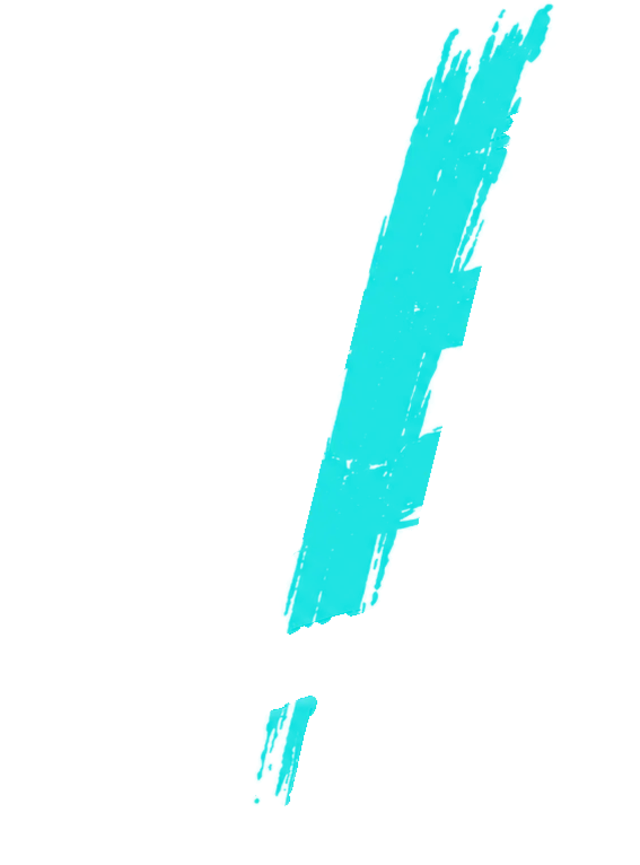
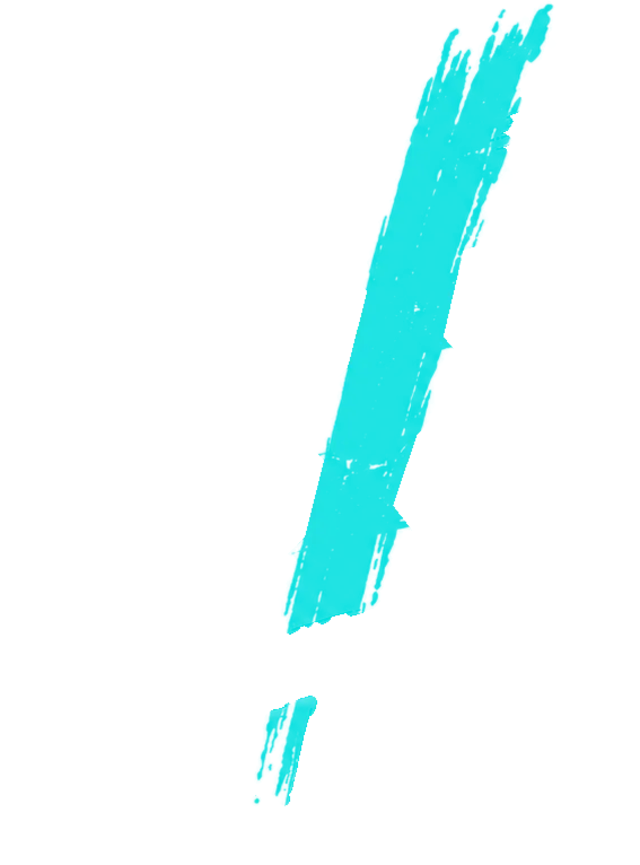
Cut the hash layers by each stroke's real outline
The write-on showed slivers of the bars while the verticals were being
drawn, because the split put every pixel within a fixed band of a
straight centerline into that stroke and the real strokes are neither
straight nor one width.

tools/strokes.py now finds each stroke's outline row by row (the run of
ink around the traced centerline), bridges the crossings with straight
edges fitted through fifty clean lines either side and blended back into
the real edge, keeps the outline to the lines the stroke actually spans,
and hands bristle streaks and spatter to the nearest outline by true
distance. The verticals carry the crossings; the bars are what is left of
their outlines. The script proves the layers recombine to the original
exactly and that no bar-outline pixel sits in a vertical's layer beyond
the crossings.

The mask paths in HeroMark.tsx are re-traced from the new layers, with
every ink pixel inside its mask width. Frames captured at 100ms steps
through all four strokes show no bar pixels during the verticals.
Motion, width, perf and audit checks pass; home LCP 2.1s, JS 143KB.

Claude-Session: https://claude.ai/code/session_01T5x7rB4KF7dzEFYqyNu4PS

diff --git a/src/components/HeroMark.tsx b/src/components/HeroMark.tsx
@@ -42,10 +42,10 @@ import { site } from "@/data/site";
  * come from useId so two instances could never share one.
  */
 const STROKES = [
-  { layer: "/brand/hash-s1.webp", d: "M289 106 L262 121 L257 141 L261 161 L250 181 L244 201 L239 221 L234 241 L228 261 L226 281 L218 301 L216 321 L205 341 L187 361 L193 381 L189 401 L188 421 L180 441 L181 461 L177 481 L165 501 L162 521 L161 541 L155 561 L148 581 L144 601 L140 621 L134 641 L129 661 L125 681 L128 698 L127 700", width: 150 },
-  { layer: "/brand/hash-s2.webp", d: "M479 18 L471 34 L449 54 L438 74 L432 94 L413 114 L402 134 L405 154 L385 174 L379 194 L373 214 L367 234 L373 254 L364 274 L363 294 L349 314 L344 334 L339 354 L334 374 L338 394 L340 414 L328 434 L320 454 L306 474 L298 494 L293 514 L293 534 L269 584 L264 637 L260 658 L256 677", width: 140 },
-  { layer: "/brand/hash-s3.webp", d: "M50 362 L66 356 L86 351 L106 337 L126 334 L146 330 L209 311 L287 305 L307 288 L417 273 L442 269 L460 269 L462 268", width: 140 },
-  { layer: "/brand/hash-s4.webp", d: "M26 513 L41 504 L61 496 L81 491 L101 485 L121 467 L237 457 L262 443 L333 427 L398 411 L418 405 L438 409 L460 417 L480 404 L500 401 L514 395", width: 150 },
+  { layer: "/brand/hash-s1.webp", d: "M289 106 L262 121 L257 141 L261 161 L250 181 L244 201 L239 221 L234 241 L227 261 L221 281 L217 301 L211 321 L206 341 L207 361 L193 381 L189 401 L186 421 L180 441 L176 461 L172 481 L169 501 L164 521 L161 541 L155 561 L148 581 L144 601 L140 621 L134 641 L129 661 L125 681 L128 698 L127 700", width: 150 },
+  { layer: "/brand/hash-s2.webp", d: "M479 18 L471 34 L449 54 L438 74 L432 94 L413 114 L402 134 L405 154 L385 174 L379 194 L372 214 L365 234 L364 254 L357 274 L355 294 L349 314 L344 334 L339 354 L334 374 L328 394 L327 414 L317 434 L314 454 L307 474 L298 494 L293 514 L293 534 L269 584 L264 637 L260 658 L256 677", width: 140 },
+  { layer: "/brand/hash-s3.webp", d: "M50 362 L66 356 L86 351 L106 337 L126 334 L146 332 L166 316 L234 315 L271 304 L291 303 L311 283 L404 280 L424 264 L444 270 L461 269 L462 268", width: 140 },
+  { layer: "/brand/hash-s4.webp", d: "M26 513 L41 504 L61 496 L81 491 L101 486 L121 479 L173 463 L228 464 L248 448 L268 440 L337 432 L375 417 L395 411 L415 406 L435 409 L456 416 L477 406 L497 402 L514 396 L514 395", width: 150 },
 ];
 
 export default function HeroMark({ className = "", priority = false }: { className?: string; priority?: boolean }) {

diff --git a/tools/strokes.py b/tools/strokes.py
@@ -1,39 +1,207 @@
 #!/usr/bin/env python3
 """
 Split the hash into its four strokes, one layer each, for the write-on in
-HeroMark.tsx. Every painted pixel of public/brand/hash.png goes to the
-stroke whose centerline it is nearest; a pixel inside a vertical's own
-width goes to that vertical, so the crossings belong to the strokes that
-were painted first. The four layers recombine to the original exactly
-(the script checks). Centerlines were read off a grid over the art.
+HeroMark.tsx. Run from the repo root; needs ImageMagick's convert.
 
-  python3 tools/strokes.py        (needs ImageMagick's convert)
+HOW A PIXEL IS ASSIGNED. The first version put every pixel within a fixed
+distance of a straight centerline into that stroke, and because the real
+strokes are neither straight nor a constant width, slivers of the bars
+landed in the verticals' layers and showed through while the verticals
+were being drawn (Kevin saw it). This version finds each stroke's ACTUAL
+outline:
+
+  1. For a vertical, in every row, the run of ink that contains the
+     stroke's centerline (the traced path from tools/centerlines.py, or the
+     straight guide the first time). Its left and right ends are the
+     stroke's edges in that row. Rows where that run is far wider than the
+     stroke's typical width are crossings, where the run has merged with a
+     bar. There, and in a guard band of rows either side (where the bar's
+     bristle streaks touch the vertical and widen its run), each edge is a
+     straight line fitted through fifty clean rows above and fifty below,
+     which is where a brush edge would be under the paint.
+  2. The same for a bar, by column, with top and bottom edges.
+  3. A pixel inside a vertical's outline belongs to that vertical (the
+     verticals were painted first, so the crossings are theirs). Otherwise
+     a pixel inside a bar's outline belongs to that bar. Whatever is left,
+     the bristle streaks and the spatter, goes to the stroke whose outline
+     is nearest in that pixel's own row or column.
+
+The four layers recombine to the original exactly, and the script says how
+many pixels of each bar's outline ended up in a vertical (want: only the
+crossings, nothing beyond them).
+
+  python3 tools/strokes.py
 """
-import math, os, subprocess, sys
+import math, os, statistics, subprocess
 ROOT = os.path.dirname(os.path.dirname(os.path.abspath(__file__)))
 B = os.path.join(ROOT, "public/brand")
 W, H = 567, 766
-SEGS = [((268, 95), (118, 735)), ((432, 12), (262, 700)), ((25, 325), (485, 248)), ((15, 478), (560, 385))]
-HALF = [52, 48, 0, 0]
-run = lambda *a: subprocess.run(a, check=True)
+INK = 32
+END = 10  # lines past a traced path's end that still count as the stroke
+# Centerlines: the traced paths from tools/centerlines.py once they exist,
+# else the straight guides read off a grid over the art.
+GUIDES = [
+    "M289 106 L262 121 L257 141 L261 161 L250 181 L244 201 L239 221 L234 241 L227 261 L221 281 L217 301 L211 321 L206 341 L207 361 L193 381 L189 401 L186 421 L180 441 L176 461 L172 481 L169 501 L164 521 L161 541 L155 561 L148 581 L144 601 L140 621 L134 641 L129 661 L125 681 L128 698 L127 700",
+    "M479 18 L471 34 L449 54 L438 74 L432 94 L413 114 L402 134 L405 154 L385 174 L379 194 L372 214 L365 234 L364 254 L357 274 L355 294 L349 314 L344 334 L339 354 L334 374 L328 394 L327 414 L317 434 L314 454 L307 474 L298 494 L293 514 L293 534 L269 584 L264 637 L260 658 L256 677",
+    "M50 362 L66 356 L86 351 L106 337 L126 334 L146 332 L166 316 L234 315 L271 304 L291 303 L311 283 L404 280 L424 264 L444 270 L461 269 L462 268",
+    "M26 513 L41 504 L61 496 L81 491 L101 486 L121 479 L173 463 L228 464 L248 448 L268 440 L337 432 L375 417 L395 411 L415 406 L435 409 L456 416 L477 406 L497 402 L514 396 L514 395",
+]
+AXIS = ["y", "y", "x", "x"]
+
+def run(*a): subprocess.run(a, check=True)
+def parse(d):
+    import re
+    return [(float(x), float(y)) for x, y in re.findall(r"(-?\d+(?:\.\d+)?) (-?\d+(?:\.\d+)?)", d)]
+def center_at(pts, axis, i):
+    """The centerline's x at row i (axis y) or y at column i (axis x), by linear interpolation along the polyline, extended straight past the ends."""
+    k = 1 if axis == "y" else 0
+    seq = sorted(pts, key=lambda p: p[k])
+    if i <= seq[0][k]: a, b = seq[0], seq[1]
+    elif i >= seq[-1][k]: a, b = seq[-2], seq[-1]
+    else:
+        a = max((p for p in seq if p[k] <= i), key=lambda p: p[k]); b = min((p for p in seq if p[k] > i), key=lambda p: p[k])
+    if b[k] == a[k]: return a[1 - k]
+    t = (i - a[k]) / (b[k] - a[k])
+    return a[1 - k] + t * (b[1 - k] - a[1 - k])
+def seg_dist(p, a, b):
+    dx, dy = b[0] - a[0], b[1] - a[1]; l2 = dx * dx + dy * dy or 1
+    t = max(0, min(1, ((p[0] - a[0]) * dx + (p[1] - a[1]) * dy) / l2))
+    return math.hypot(p[0] - (a[0] + t * dx), p[1] - (a[1] + t * dy))
+def path_dist(p, pts): return min(seg_dist(p, pts[k], pts[k + 1]) for k in range(len(pts) - 1))
+
 run("convert", f"{B}/hash.png", "-alpha", "extract", "-depth", "8", "gray:/tmp/rtp-hash-alpha.gray")
 a = open("/tmp/rtp-hash-alpha.gray", "rb").read(); assert len(a) == W * H
-def dist(p, s):
-    (x1, y1), (x2, y2) = s; dx, dy = x2 - x1, y2 - y1
-    t = max(0, min(1, ((p[0] - x1) * dx + (p[1] - y1) * dy) / (dx * dx + dy * dy)))
-    return math.hypot(p[0] - (x1 + t * dx), p[1] - (y1 + t * dy))
-layers = [bytearray(W * H) for _ in SEGS]
-for j in range(H):
-    for i in range(W):
-        v = a[j * W + i]
-        if not v: continue
-        d = [dist((i, j), s) for s in SEGS]
-        k = next((n for n in (0, 1) if d[n] <= HALF[n]), None)
-        if k is None: k = min(range(4), key=lambda n: d[n])
-        layers[k][j * W + i] = v
+ink_at = lambda x, y: a[y * W + x] > INK
+
+def outline(pts, axis):
+    """Per row (axis y) or column (axis x): the run of ink containing the centerline, as (lo, hi), with crossings interpolated. None where the stroke is absent."""
+    n_lines, n_across = (H, W) if axis == "y" else (W, H)
+    raw = {}
+    # Only the lines the stroke actually spans, plus a few for the ragged
+    # cap past the traced end. Extending the centerline's end segment
+    # across the whole canvas put the top of the first vertical, whose
+    # last segment hooks sideways, into the second vertical's bristles 80
+    # rows up, and handed those bristles to the wrong layer.
+    k = 1 if axis == "y" else 0
+    lo_line = int(min(p[k] for p in pts)) - END; hi_line = int(max(p[k] for p in pts)) + END
+    for i in range(max(0, lo_line), min(n_lines, hi_line + 1)):
+        c = int(round(center_at(pts, axis, i)))
+        if not (0 <= c < n_across): continue
+        at = (lambda j: ink_at(j, i)) if axis == "y" else (lambda j: ink_at(i, j))
+        if not at(c):
+            # The centerline sits in a hairline gap inside the stroke: look a few pixels either side.
+            for d in range(1, 8):
+                if 0 <= c - d < n_across and at(c - d): c = c - d; break
+                if 0 <= c + d < n_across and at(c + d): c = c + d; break
+            else:
+                continue
+        lo = c
+        while lo - 1 >= 0 and at(lo - 1): lo -= 1
+        hi = c
+        while hi + 1 < n_across and at(hi + 1): hi += 1
+        raw[i] = (lo, hi)
+    if not raw: return {}, 0
+    widths = sorted(hi - lo for lo, hi in raw.values())
+    typical = statistics.median(widths[len(widths) // 4: len(widths) * 3 // 4] or widths)
+    keys = sorted(raw)
+    # Crossing blocks: runs of lines where the stroke's run has merged with
+    # another stroke (far wider than typical), or where it is missing.
+    wide = {i for i in keys if raw[i][1] - raw[i][0] > typical * 1.2}
+    blocks = []
+    for i in keys:
+        if i in wide:
+            if blocks and i - blocks[-1][1] <= 3: blocks[-1][1] = i
+            else: blocks.append([i, i])
+    GUARD, WINDOW = 14, 50
+    # Lines inside a block or its guard band are never trusted as edges: the
+    # lines right beside a crossing are where the other stroke's bristle
+    # streaks touch this one and widen the run by a few pixels, and bridging
+    # from them put a notch at every crossing.
+    tainted = set()
+    for b0, b1 in blocks:
+        tainted.update(range(b0 - GUARD, b1 + GUARD + 1))
+    clean = {i: raw[i] for i in keys if i not in tainted}
+    out = dict(clean)
+    def fit(rows, which):
+        pts = [(i, clean[i][which]) for i in rows if i in clean]
+        if len(pts) < 2: return None
+        n = len(pts); mi = sum(q[0] for q in pts) / n; mv = sum(q[1] for q in pts) / n
+        var = sum((q[0] - mi) ** 2 for q in pts) or 1
+        slope = sum((q[0] - mi) * (q[1] - mv) for q in pts) / var
+        return lambda i: mv + slope * (i - mi)
+    for b0, b1 in blocks:
+        above = range(b0 - GUARD - WINDOW, b0 - GUARD); below = range(b1 + GUARD + 1, b1 + GUARD + 1 + WINDOW)
+        both = list(above) + list(below)
+        fits = [fit(both, which) or fit(above, which) or fit(below, which) for which in (0, 1)]
+        for i in range(b0 - GUARD - WINDOW, b1 + GUARD + WINDOW + 1):
+            if i not in raw: continue
+            # Inside the band the fit is the edge. Across the fifty clean
+            # lines either side it is blended back into the real edge, so
+            # the two meet without the jog that a hard switch left.
+            if i < b0 - GUARD: w = 1 - (b0 - GUARD - i) / WINDOW
+            elif i > b1 + GUARD: w = 1 - (i - b1 - GUARD) / WINDOW
+            else: w = 1
+            edges = []
+            for which in (0, 1):
+                f = fits[which]; r = out.get(i, raw[i])[which]
+                edges.append(r + w * (f(i) - r) if f else r)
+            out[i] = (edges[0], edges[1])
+    return out, typical
+
+paths = [parse(d) for d in GUIDES]
+outlines = []
+for n in range(4):
+    o, typical = outline(paths[n], AXIS[n])
+    outlines.append(o)
+    print(f"s{n + 1}: outline on {len(o)} {'rows' if AXIS[n] == 'y' else 'columns'}, typical width {typical:.0f}px")
+
+def inside(n, x, y):
+    o = outlines[n]
+    if AXIS[n] == "y":
+        e = o.get(y); return e is not None and e[0] - 0.5 <= x <= e[1] + 0.5
+    e = o.get(x); return e is not None and e[0] - 0.5 <= y <= e[1] + 0.5
+
+def gap(n, x, y):
+    """How far a pixel sits from stroke n's outline: the straight-line
+    distance to the nearest point of the outlined body, over every row or
+    column the body has. The bristle streaks at a stroke's ragged edge are
+    separated from the body by a pixel or two, so they fall outside the
+    run; the nearest OUTLINE is theirs, where the nearest centerline would
+    hand a bar's streak to the vertical it ends beside. (Measuring only in
+    the pixel's own row, with a penalty when the stroke had no outline
+    there, gave the specks above the first vertical's top to the second
+    vertical, which did have an outline on that row, 100px away.)"""
+    o = outlines[n]
+    best = 1e9
+    along, across = (y, x) if AXIS[n] == "y" else (x, y)
+    for i, (lo, hi) in o.items():
+        d_along = i - along
+        if abs(d_along) >= best: continue
+        d_across = 0 if lo - 0.5 <= across <= hi + 0.5 else min(abs(across - lo), abs(across - hi))
+        best = min(best, math.hypot(d_along, d_across))
+    return best
+
+layers = [bytearray(W * H) for _ in range(4)]
+counts = [0] * 4; spatter = 0
+for y in range(H):
+    for x in range(W):
+        v = a[y * W + x]
+        if not v:
+            continue
+        # Every painted pixel is assigned, down to the faintest edge, so the
+        # layers recombine to the original exactly.
+        k = next((n for n in (0, 1, 2, 3) if inside(n, x, y)), None)
+        if k is None:
+            k = min(range(4), key=lambda n: gap(n, x, y)); spatter += 1
+        layers[k][y * W + x] = v; counts[k] += 1
+print("pixels per stroke", counts, "of which spatter by nearest outline", spatter)
 for n, l in enumerate(layers, 1):
     open(f"/tmp/rtp-s{n}.gray", "wb").write(bytes(l))
     run("convert", "-size", f"{W}x{H}", "-depth", "8", f"gray:/tmp/rtp-s{n}.gray", f"/tmp/rtp-s{n}.png")
     run("convert", "-size", f"{W}x{H}", "xc:#00DFDF", f"/tmp/rtp-s{n}.png", "-alpha", "off", "-compose", "CopyOpacity", "-composite", "-resize", "640x", "-quality", "85", "-define", "webp:alpha-quality=90", f"{B}/hash-s{n}.webp")
 out = subprocess.run(["bash", "-c", f"compare -metric AE <(convert /tmp/rtp-s1.png /tmp/rtp-s2.png /tmp/rtp-s3.png /tmp/rtp-s4.png -evaluate-sequence Max png:-) <(convert {B}/hash.png -alpha extract png:-) null:"], capture_output=True, text=True)
 print("pixels that differ from the original after recombining:", out.stderr.strip(), "(want 0)")
+# The check that matters: bar pixels in a vertical's layer must all lie inside that vertical's outline (the crossings), never beyond it.
+for v in (0, 1):
+    stray = sum(1 for y in range(H) for x in range(W) if layers[v][y * W + x] and (inside(2, x, y) or inside(3, x, y)) and not inside(v, x, y))
+    print(f"s{v + 1}: bar-outline pixels outside the vertical's own outline: {stray} (want 0)")

diff --git a/README.md b/README.md
@@ -151,11 +151,22 @@ yet: order notification is the Stripe dashboard email until one is built
   (CSS-Tricks, "Animate Calligraphy with SVG"; "Handwriting Animation With
   Irregular SVG Strokes"). `HeroMark.tsx` does that over four stroke
   layers, `public/brand/hash-s1.webp` to `hash-s4.webp`, which
-  `tools/strokes.py` cuts from `hash.png` by nearest centerline (crossings
-  to the verticals, painted first); they recombine to the original exactly.
-  The mask paths are TRACED from the pixels by `tools/centerlines.py`
-  (the center of each row's or column's ink, smoothed, a point every
-  20px), and the script checks every ink pixel lies inside its mask width.
+  `tools/strokes.py` cuts from `hash.png` along each stroke's ACTUAL
+  outline (the run of ink around the traced centerline in every row or
+  column, with the crossings bridged by straight edges fitted through
+  the clean lines either side and blended back into the real edge;
+  crossings go to the verticals, painted first; bristle streaks and
+  spatter go to the nearest outline). The first cut used a fixed band
+  around a straight centerline and left slivers of the bars in the
+  verticals' layers, which showed through while the verticals were being
+  drawn (Kevin saw it, 2026-10-02). The script proves the layers
+  recombine to the original exactly and that no bar-outline pixel sits in
+  a vertical's layer beyond its crossings. The mask paths are TRACED from
+  the pixels by `tools/centerlines.py` (the center of each row's or
+  column's ink, smoothed, a point every 20px), and it checks every ink
+  pixel lies inside its mask width (all four at 0 outside). Trace, feed
+  the paths back as the split's guides, split, trace again: it converges
+  in one round.
   Order: left vertical, right vertical, upper bar, lower bar, about 3.3s.
   The write-on waits for the four layers to be fetched (`data-ready`, set
   from an effect: React does not deliver load events for SVG `<image>`,
